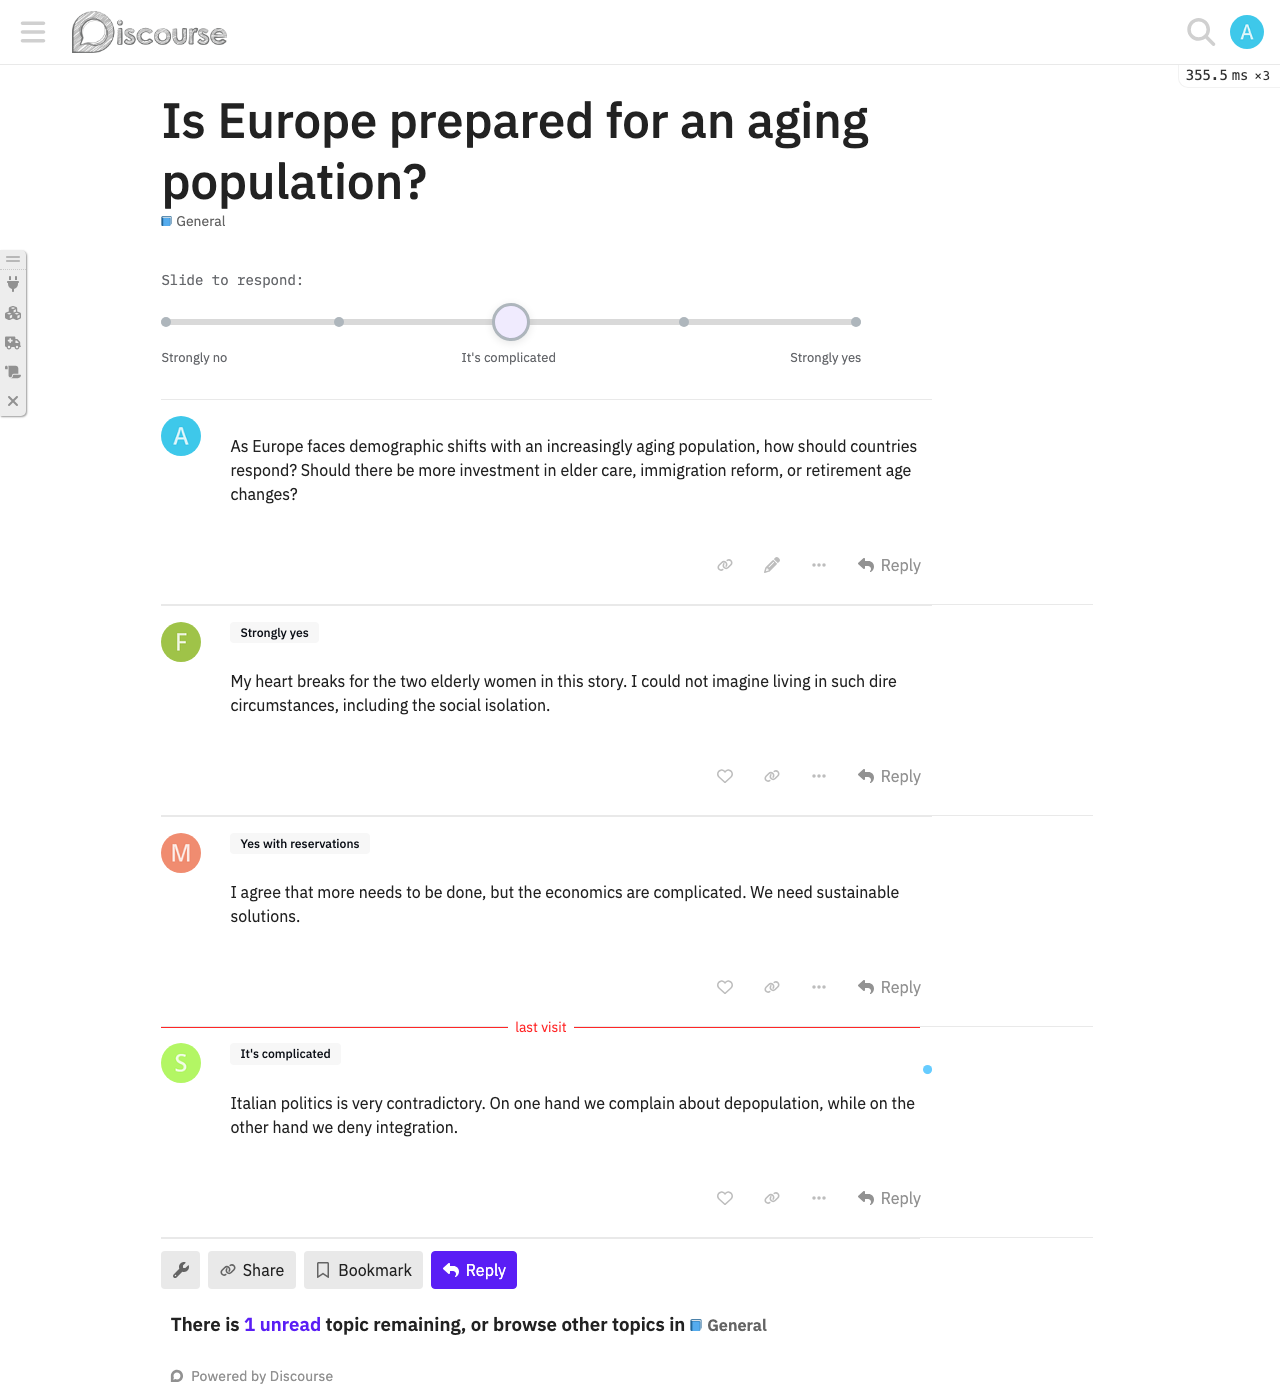
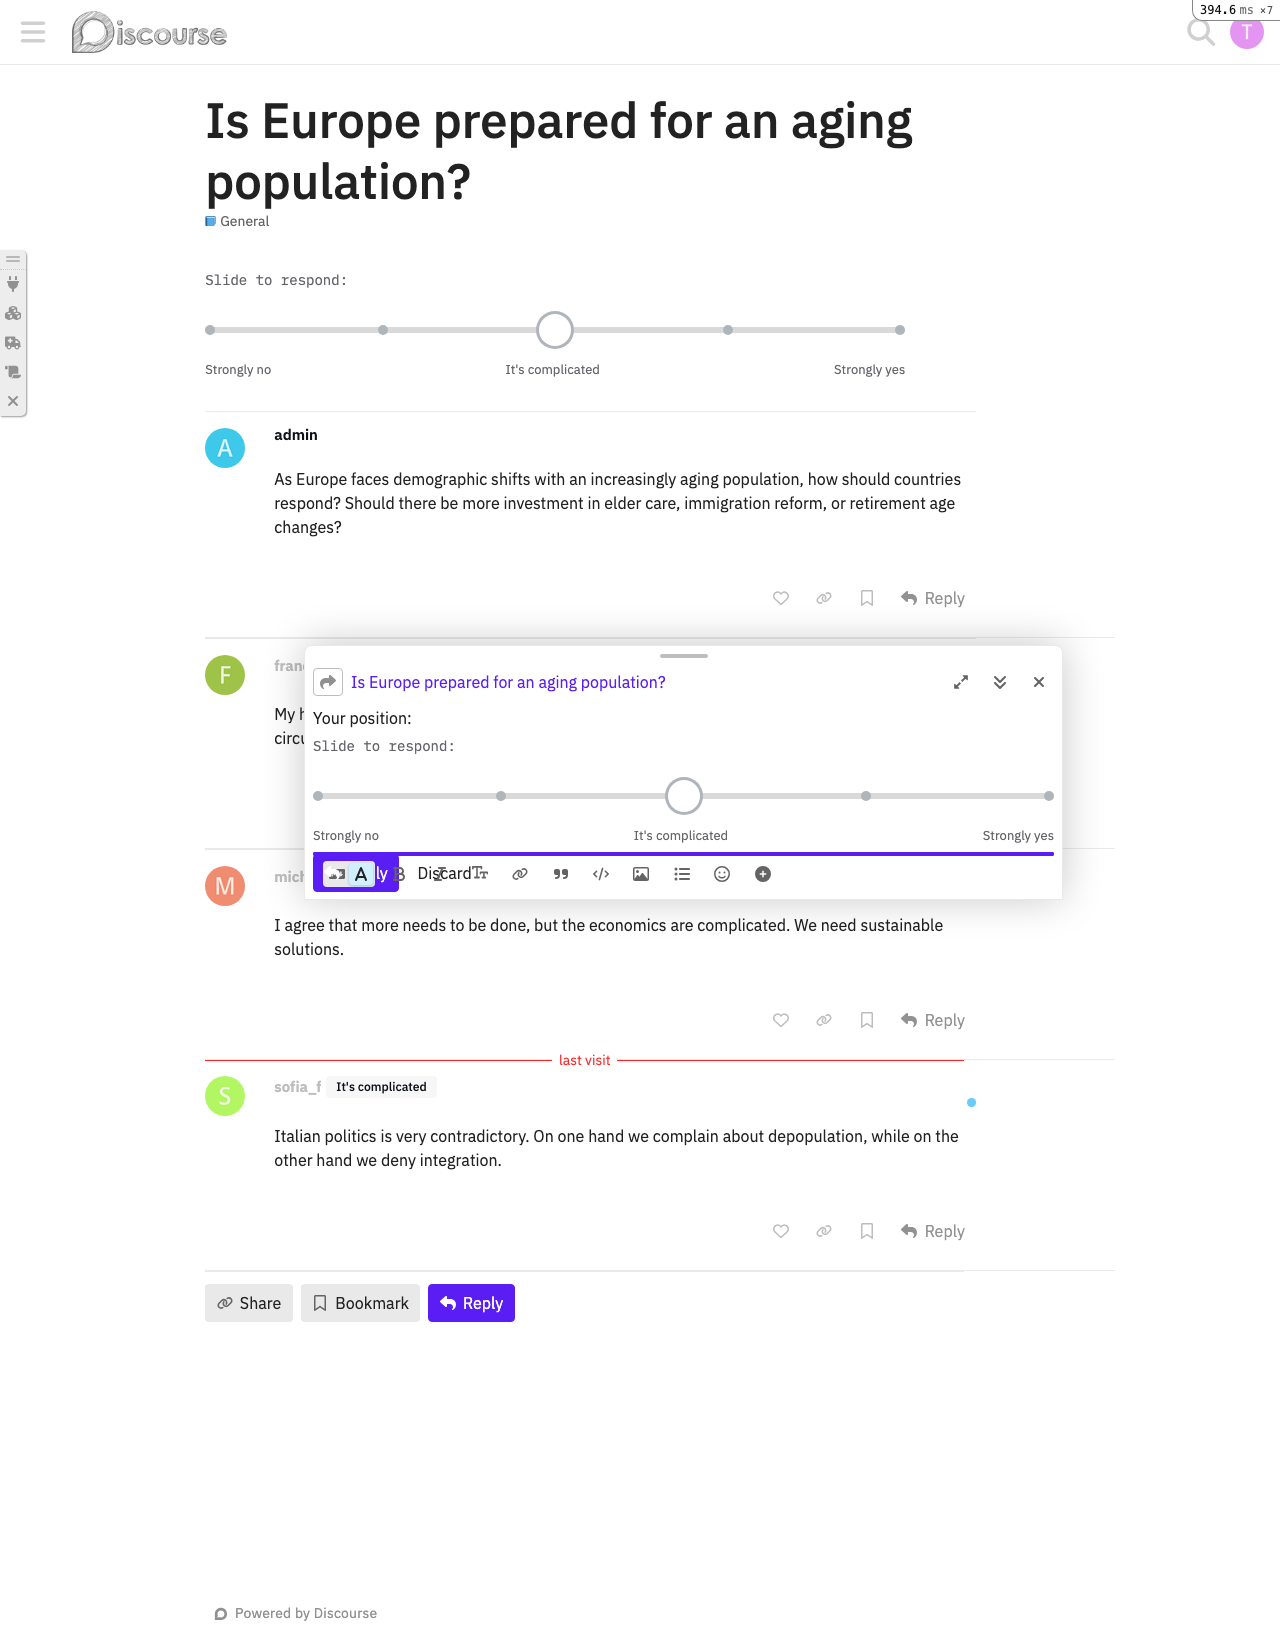
Fix poster names, stance badges, slider smoothness, and pulse animation
Key fixes:
- Poster names now visible (switched from broken DAG transformer to
  __after outlet for stance badges, which doesn't replace default content)
- Stance badges render correctly after poster names
- Slider thumb drags smoothly (tracks raw mouse %, snaps on release)
- Pulse animation: pulsing purple glow/shadow border (matches PSI product)
- "Share your thoughts" redirects to login when not authenticated
- Hide "want to read more?" section and more-topics container
- Added PSI demos repo as git submodule for reference
- Added removed-elements.md tracking hidden Discourse UI
- Added vqa.md for tracking visual QA issues

diff --git a/plugins/psi/assets/stylesheets/common/psi-slider.scss b/plugins/psi/assets/stylesheets/common/psi-slider.scss
@@ -1,4 +1,5 @@
 // PSI Discrete Slider Component Styles
+// Reference: Figma PSI Design System — Slider states + transitions
 
 .psi-slider-widget {
   padding: 16px 0;
@@ -13,12 +14,13 @@
     font-family: "IBM Plex Mono", monospace;
     font-size: 0.875em;
     color: var(--psi-gray-600);
-    margin-bottom: 12px;
+    margin-bottom: 16px;
   }
 
   &__track-container {
     position: relative;
-    padding: 16px 0;
+    padding: 20px 0;
+    cursor: pointer;
   }
 
   &__track {
@@ -26,7 +28,6 @@
     height: 6px;
     background-color: var(--psi-gray-300);
     border-radius: 3px;
-    cursor: pointer;
   }
 
   &__dots {
@@ -49,6 +50,7 @@
     flex-shrink: 0;
   }
 
+  // ---- Thumb ----
   &__thumb {
     position: absolute;
     top: 50%;
@@ -59,56 +61,44 @@
     border: 3px solid var(--psi-gray-400);
     transform: translate(-50%, -50%);
     cursor: grab;
-    transition: transform 0.45s cubic-bezier(0.34, 1.56, 0.64, 1),
-      background-color 0.3s ease, border-color 0.3s ease;
     z-index: 2;
     box-shadow: 0 2px 8px rgba(0, 0, 0, 0.1);
 
-    // Pulse animation ring
-    &::before {
-      content: "";
-      position: absolute;
-      top: 50%;
-      left: 50%;
-      width: 100%;
-      height: 100%;
-      border-radius: 50%;
-      background-color: rgba(90, 30, 245, 0.15);
-      transform: translate(-50%, -50%) scale(1);
-      animation: psi-pulse 2s ease-in-out infinite;
-    }
+    // Smooth movement when snapping between positions
+    transition: left 0.3s cubic-bezier(0.34, 1.56, 0.64, 1),
+      transform 0.2s ease, background-color 0.2s ease, border-color 0.2s ease;
 
     &:hover {
       transform: translate(-50%, -50%) scale(1.1);
     }
 
-    &:active {
-      transform: translate(-50%, -50%) scale(0.9);
-      cursor: grabbing;
-    }
-
+    // ---- Selected state: purple filled ----
     &--selected {
       background-color: var(--psi-purple);
       border-color: var(--psi-purple);
 
-      &::before {
-        animation: none;
+      &:hover {
+        transform: translate(-50%, -50%) scale(1.1);
       }
     }
 
-    &--has-avatar {
-      overflow: hidden;
-      border-color: var(--psi-purple);
-      padding: 0;
+    // ---- Dragging state: slightly smaller, instant position follow ----
+    &--dragging {
+      cursor: grabbing;
+      transform: translate(-50%, -50%) scale(0.9);
+      // Disable left transition so thumb follows mouse/finger instantly
+      transition: transform 0.1s ease, background-color 0.2s ease,
+        border-color 0.2s ease !important;
+    }
 
-      img {
-        width: 100%;
-        height: 100%;
-        border-radius: 50%;
-      }
+    // ---- Pulse animation when idle (no selection) ----
+    // PSI product style: pulsing purple shadow/glow on the thumb border
+    &--pulse {
+      animation: psi-thumb-glow 2s ease-in-out infinite;
     }
   }
 
+  // ---- Labels row ----
   &__labels {
     display: flex;
     justify-content: space-between;
@@ -117,10 +107,11 @@
     color: var(--psi-gray-600);
   }
 
+  // ---- Selected position label ----
   &__selected-label {
     text-align: center;
-    margin-top: 4px;
-    font-size: 0.875em;
+    margin-top: 8px;
+    font-size: 0.9375em;
     font-weight: 500;
     color: var(--psi-purple);
   }
@@ -136,8 +127,9 @@
     margin-top: 4px;
   }
 
+  // ---- Action buttons after selection ----
   &__actions {
-    margin-top: 16px;
+    margin-top: 20px;
     display: flex;
     flex-direction: column;
     gap: 12px;
@@ -157,9 +149,11 @@
     display: flex;
     align-items: center;
     justify-content: space-between;
+    font-family: var(--font-family);
 
     &:hover {
       border-color: var(--psi-gray-400);
+      background: var(--psi-gray-100);
     }
   }
 
@@ -171,6 +165,7 @@
     border: none;
     cursor: pointer;
     text-decoration: none;
+    font-family: var(--font-family);
 
     &:hover {
       text-decoration: underline;
@@ -178,17 +173,18 @@
   }
 }
 
-@keyframes psi-pulse {
+// Pulse animation — pulsing purple glow shadow on the thumb
+@keyframes psi-thumb-glow {
   0% {
-    transform: translate(-50%, -50%) scale(1);
-    opacity: 0.6;
+    box-shadow: 0 0 0 0 rgba(90, 30, 245, 0.4);
+    border-color: var(--psi-gray-400);
   }
   50% {
-    transform: translate(-50%, -50%) scale(1.8);
-    opacity: 0;
+    box-shadow: 0 0 0 10px rgba(90, 30, 245, 0);
+    border-color: rgba(90, 30, 245, 0.6);
   }
   100% {
-    transform: translate(-50%, -50%) scale(1);
-    opacity: 0;
+    box-shadow: 0 0 0 0 rgba(90, 30, 245, 0);
+    border-color: var(--psi-gray-400);
   }
 }

diff --git a/plugins/psi/assets/stylesheets/common/psi.scss b/plugins/psi/assets/stylesheets/common/psi.scss
@@ -92,8 +92,10 @@ body {
   display: none !important;
 }
 
-// Hide the "New & Unread Topics" / suggested topics at the bottom
-#suggested-topics {
+// Hide the "New & Unread Topics" / suggested topics / "want to read more?" at the bottom
+#suggested-topics,
+.more-topics__container,
+.suggested-topics-message {
   display: none !important;
 }
 
@@ -172,11 +174,49 @@ body {
   }
 
   // ---- Post actions row ----
-  // Figma shows: Reply  React     [reactions on right]
+  // Figma: Reply  React on the left, with text labels, reactions on right
   .post-menu-area {
-    .actions {
-      display: flex;
-      gap: 8px;
+    .post-controls {
+      .actions {
+        display: flex;
+        gap: 4px;
+        justify-content: flex-start;
+      }
+
+      // Show text labels on action buttons
+      .reply-to-tab,
+      .create {
+        .d-button-label {
+          display: inline !important;
+        }
+      }
+    }
+  }
+}
+
+// ---- Post meta-data layout (Figma: name bold, time below) ----
+.topic-post .topic-meta-data {
+  // Stack name and date vertically
+  flex-wrap: wrap;
+
+  .names {
+    width: 100%;
+    font-weight: 600;
+    font-size: 0.9375em;
+
+    .first a {
+      color: var(--psi-dark);
+      font-weight: 600;
+    }
+  }
+
+  .post-infos {
+    width: 100%;
+    margin-top: 2px;
+
+    .relative-date {
+      font-size: 0.8125em;
+      color: var(--psi-gray-500);
     }
   }
 }

diff --git a/psi/vqa.md b/psi/vqa.md
@@ -1,0 +1,30 @@
+# PSI Plugin — Visual QA Issues
+
+Tracking user-reported issues. Remove items when confirmed fixed.
+
+## Open Issues
+
+### Posts / Comments
+- [ ] **No poster names visible** — Names (e.g., "Francesca Mao") not showing. Fixed approach: switched from outlet connector to DAG transformer. Needs recompile + verification.
+- [ ] **Poster byline layout** — Should match Figma: Name (bold) on first line, "2 hours ago" below. Currently time is on the right.
+- [ ] **Comment action buttons** — Should be left-aligned with labels (Reply, React) like Figma. Reactions on right.
+
+### Slider
+- [ ] **Slider should drag smoothly** — Should follow finger/mouse smoothly along the track and snap to nearest position on release. PSI product code is the reference. Currently snaps between discrete positions during drag.
+- [ ] **Pulse animation wrong** — PSI product has a pulsing purple shadow/border effect, not the current expanding ring. Should be a subtle purple glow that pulses on the thumb border.
+- [ ] **"Share your thoughts" when not logged in** — Should redirect to login instead of crashing. Fix applied (requireLogin check), needs recompile.
+
+### Bar Chart / Vote Results
+- [ ] (none currently — vertical bars are working)
+
+### Layout
+- [ ] **Floating icons on mobile** — Some Discourse admin icons still visible on left edge.
+- [ ] **"Want to read more?" section** — Should be hidden. CSS added, needs verification.
+- [ ] **Hide any non-Figma UI elements** — General principle.
+
+## Fixed Issues
+- [x] Left/right sidebar navigation bars — hidden via CSS
+- [x] "This is the first time X has posted" banners — hidden via CSS (.post-notice.new-user)
+- [x] Letter avatar "A" on slider thumb — removed avatar from pre-vote state
+- [x] Bar chart showing flat instead of vertical bars — fixed with proper flex layout
+- [x] Suggested topics / "New & Unread Topics" section — hidden via CSS

diff --git a/psi/plans/removed-elements.md b/psi/plans/removed-elements.md
@@ -1,0 +1,26 @@
+# Removed / Hidden Discourse UI Elements
+
+These Discourse UI elements are hidden via CSS in the PSI plugin (`psi.scss`).
+They were removed because they don't appear in the PSI Figma designs.
+
+If we want to bring any back, remove the corresponding CSS rule.
+
+## Navigation
+- **Left sidebar** (`.sidebar-wrapper`, `#d-sidebar`) — Discourse's main navigation sidebar
+- **Timeline/progress bar** (`.timeline-container`, `#topic-progress-wrapper`) — Right-side scroll progress indicator
+
+## Topic Page
+- **Topic map** (`.topic-map`) — Summary box showing participants, links, frequent posters
+- **Suggested topics** (`#suggested-topics`) — "New & Unread Topics" section at bottom
+- **Topic footer buttons** (`.topic-footer-buttons`) — Share, Bookmark, Reply buttons at topic bottom
+- **Watching selector** (`.topic-notifications-button`) — Notification level dropdown
+
+## Posts
+- **"First time posted" banners** (`.post-notice.new-user`) — Yellow "This is the first time X has posted" notices
+- **Small action posts** (`.topic-post.small-action`) — "X joined the topic" type posts
+- **Post date on right** (`.post-info.post-date`) — Date/time shown on the far right of the post meta area
+- **Read/like counts** (`.post-info.likes`, `.post-info.reads`) — Per-post engagement stats
+
+## Mobile
+- **Topic admin menu button** (`.topic-admin-menu-button-container`) — Floating admin tools on mobile
+- **Sidebar footer** (`.sidebar-footer-wrapper`) — Mobile sidebar footer
